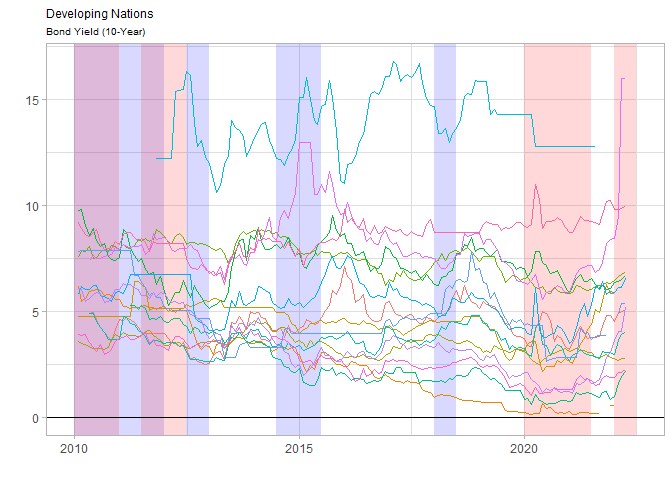
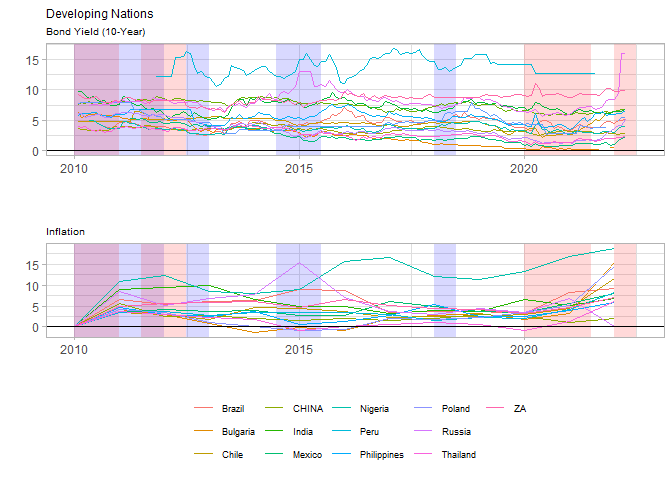
A commit with minor changes.

diff --git a/README.md b/README.md
@@ -385,76 +385,80 @@ source("code/Yield_Plotter_foo.R")
 
 ###
 
-
+grid.arrange(
 
 Yield_Plotter(Data = Bonds10yr,
               Vec = Dev_Count, 
               y = BondYield_10,
               "Developed Nations",
               "Bond Yield (10-Year)",
-              "none")
-```
+              "none"),
 
-<img src="README_files/figure-markdown_github/unnamed-chunk-8-1.png" width="100%" height="100%" />
-
-``` r
 Yield_Plotter(Data = CPI,
               Vec = Dev_Count, 
               y = Inflation,
               "",
               "Inflation",
-              "bottom")
+              "bottom"),
+
+ncol = 1,
+
+heights = c(1.5,2.1))
 ```
 
-<img src="README_files/figure-markdown_github/unnamed-chunk-8-2.png" width="100%" height="100%" />
+<img src="README_files/figure-markdown_github/unnamed-chunk-8-1.png" width="100%" height="100%" />
 
 ## Developing Nations Bond Yields & Inflation
 
 ``` r
+grid.arrange(
+
 Yield_Plotter(Data = Bonds10yr,
               Vec = Developing_vec, 
               y = BondYield_10,
               "Developing Nations",
               "Bond Yield (10-Year)",
-              "none")
-```
+              "none"),
 
-<img src="README_files/figure-markdown_github/unnamed-chunk-9-1.png" width="100%" height="100%" />
-
-``` r
 Yield_Plotter(Data = CPI,
               Vec = Developing_vec, 
               y = Inflation,
               "",
               "Inflation",
-              "bottom")
+              "bottom"),
+
+ncol = 1,
+
+heights = c(1.5,2.1))
 ```
 
-<img src="README_files/figure-markdown_github/unnamed-chunk-9-2.png" width="100%" height="100%" />
+<img src="README_files/figure-markdown_github/unnamed-chunk-9-1.png" width="100%" height="100%" />
 
 ## BRICS Bond Yields & Inflation
 
 ``` r
+grid.arrange(
+
 Yield_Plotter(Data = Bonds10yr,
               Vec = BRICS, 
               y = BondYield_10,
               "BRICS",
               "Bond Yield (10-Year)",
-              "none")
-```
+              "none"),
 
-<img src="README_files/figure-markdown_github/unnamed-chunk-10-1.png" width="100%" height="100%" />
-
-``` r
 Yield_Plotter(Data = CPI,
               Vec = BRICS, 
               y = Inflation,
               "",
               "Inflation",
-              "bottom")
+              "bottom"),
+
+ncol = 1,
+
+heights = c(2,2.5))
 ```
 
-<img src="README_files/figure-markdown_github/unnamed-chunk-10-2.png" width="100%" height="100%" />
+<img src="README_files/figure-markdown_github/unnamed-chunk-10-1.png" width="100%" height="100%" />
 
 ``` r
 # Housekeeping 
@@ -546,15 +550,5 @@ Yield_Map <- create_map(M1, "Average Bond Yield (2-Year)", "none")
 
 Inflation_Map <- create_map(M2, "Average Inflation", "none")
 
-###
-
-print(Yield_Map)
+# I print both in a hidden chunk in order to maintain neatness. 
 ```
-
-<img src="README_files/figure-markdown_github/unnamed-chunk-15-1.png" width="100%" height="100%" />
-
-``` r
-print(Inflation_Map)
-```
-
-<img src="README_files/figure-markdown_github/unnamed-chunk-15-2.png" width="100%" height="100%" />
